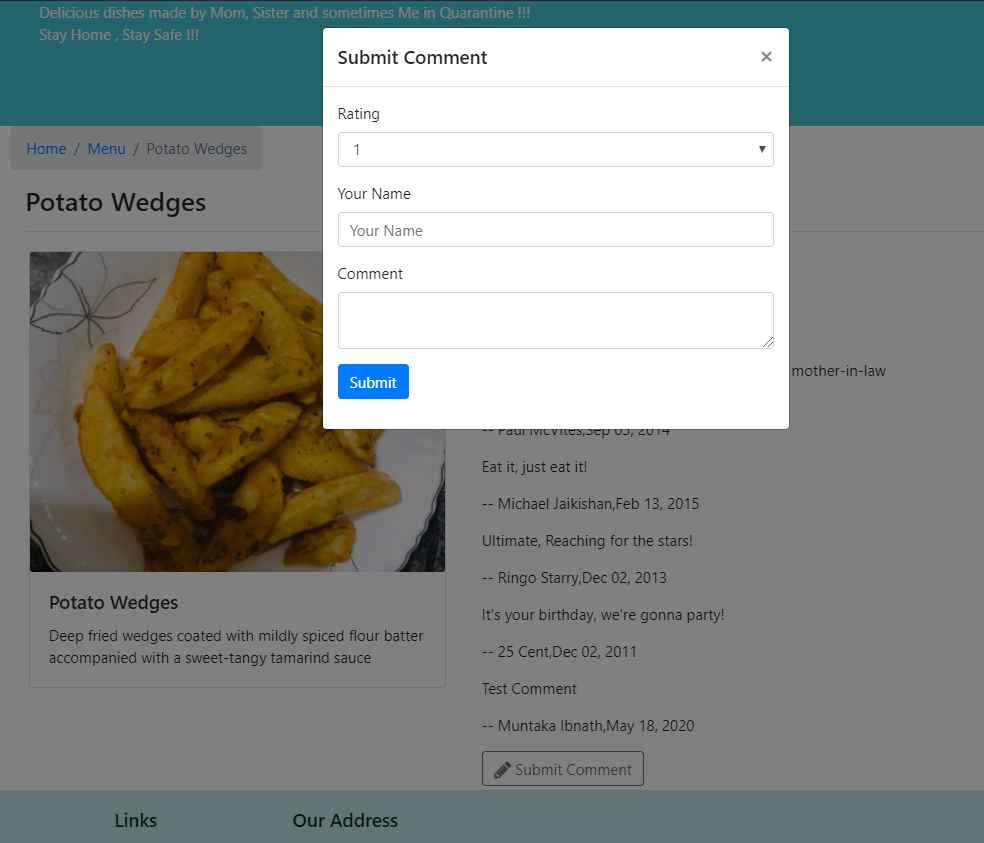
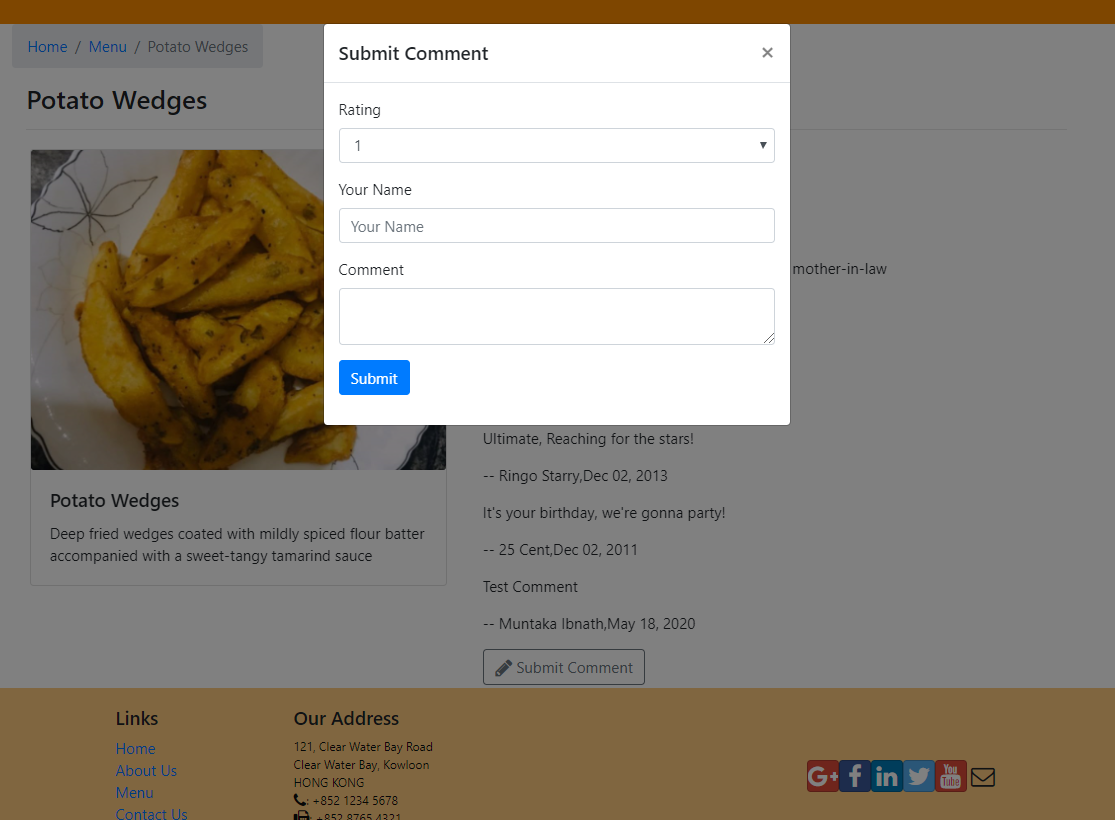
add readme images

diff --git a/confusion/src/components/HeaderComponent.js b/confusion/src/components/HeaderComponent.js
@@ -36,9 +36,7 @@ class Header extends Component {
             <Navbar dark expand = "md">
                 <div className="container">
                     <NavbarToggler onClick={this.toggleNav}/>
-                    <NavbarBrand className = "mr-auto" href="/">
-                        <img src = "assets/images/logo.jpg" height = "30" width = "41" alt = "Ristorante Con Fusion"/>
-                    </NavbarBrand>
+                    
                     <Collapse isOpen={this.state.isNavOpen} navbar>
                         <Nav navbar>
                             <NavItem>

diff --git a/confusion/src/App.css b/confusion/src/App.css
@@ -11,14 +11,14 @@
 }
 
 .footer{
-    background-color: rgb(196, 231, 233);
+    background-color: #ffcc80;
     margin:0px auto;
     padding: 20px 0px 20px 0px;
 }
 .jumbotron {
     padding:70px 30px 70px 30px;
     margin:0px auto;
-    background: rgb(71, 200, 218) ;
+    background: #fb8c00;
     color:rgb(255, 251, 240);
 }
 
@@ -29,7 +29,7 @@ address{
 }
 
 .navbar-dark {
-    background-color: rgb(32, 131, 138);
+    background-color: #ef6c00;
 }
 
 .page-enter {
